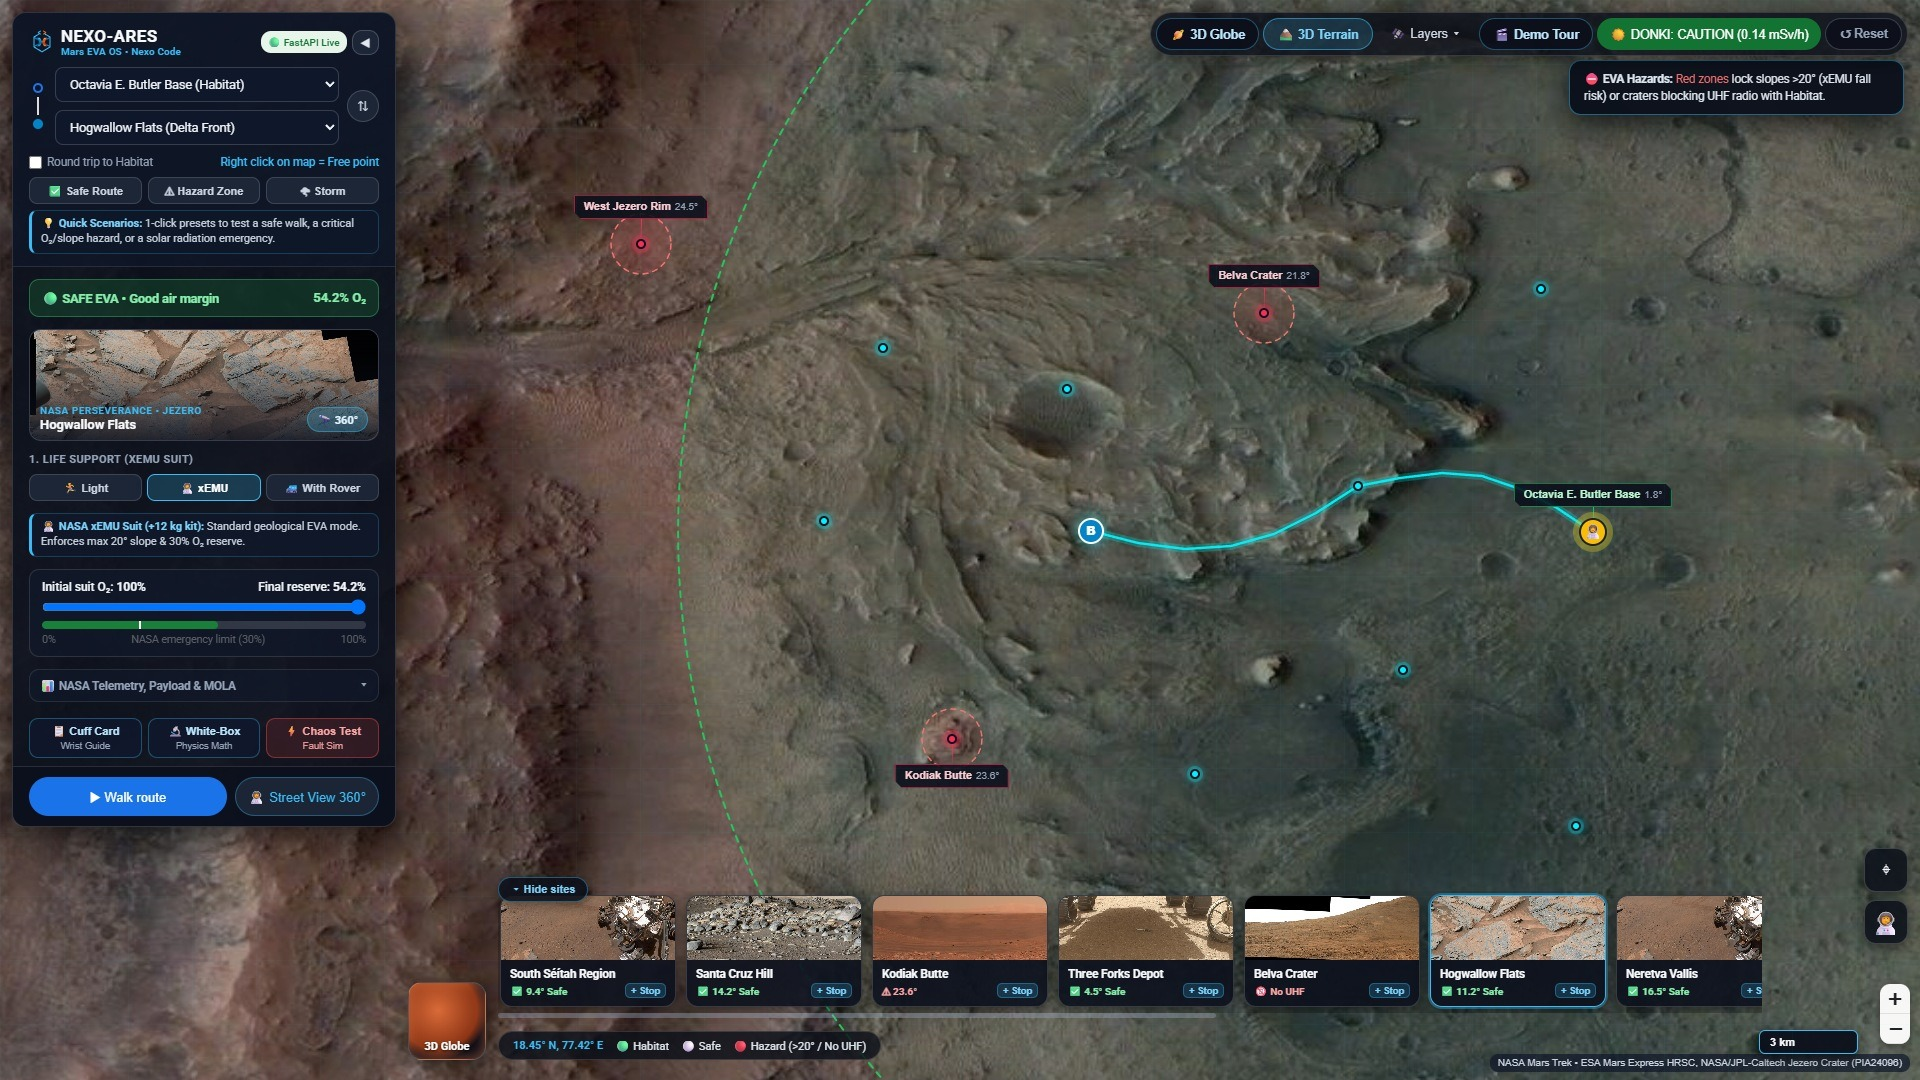
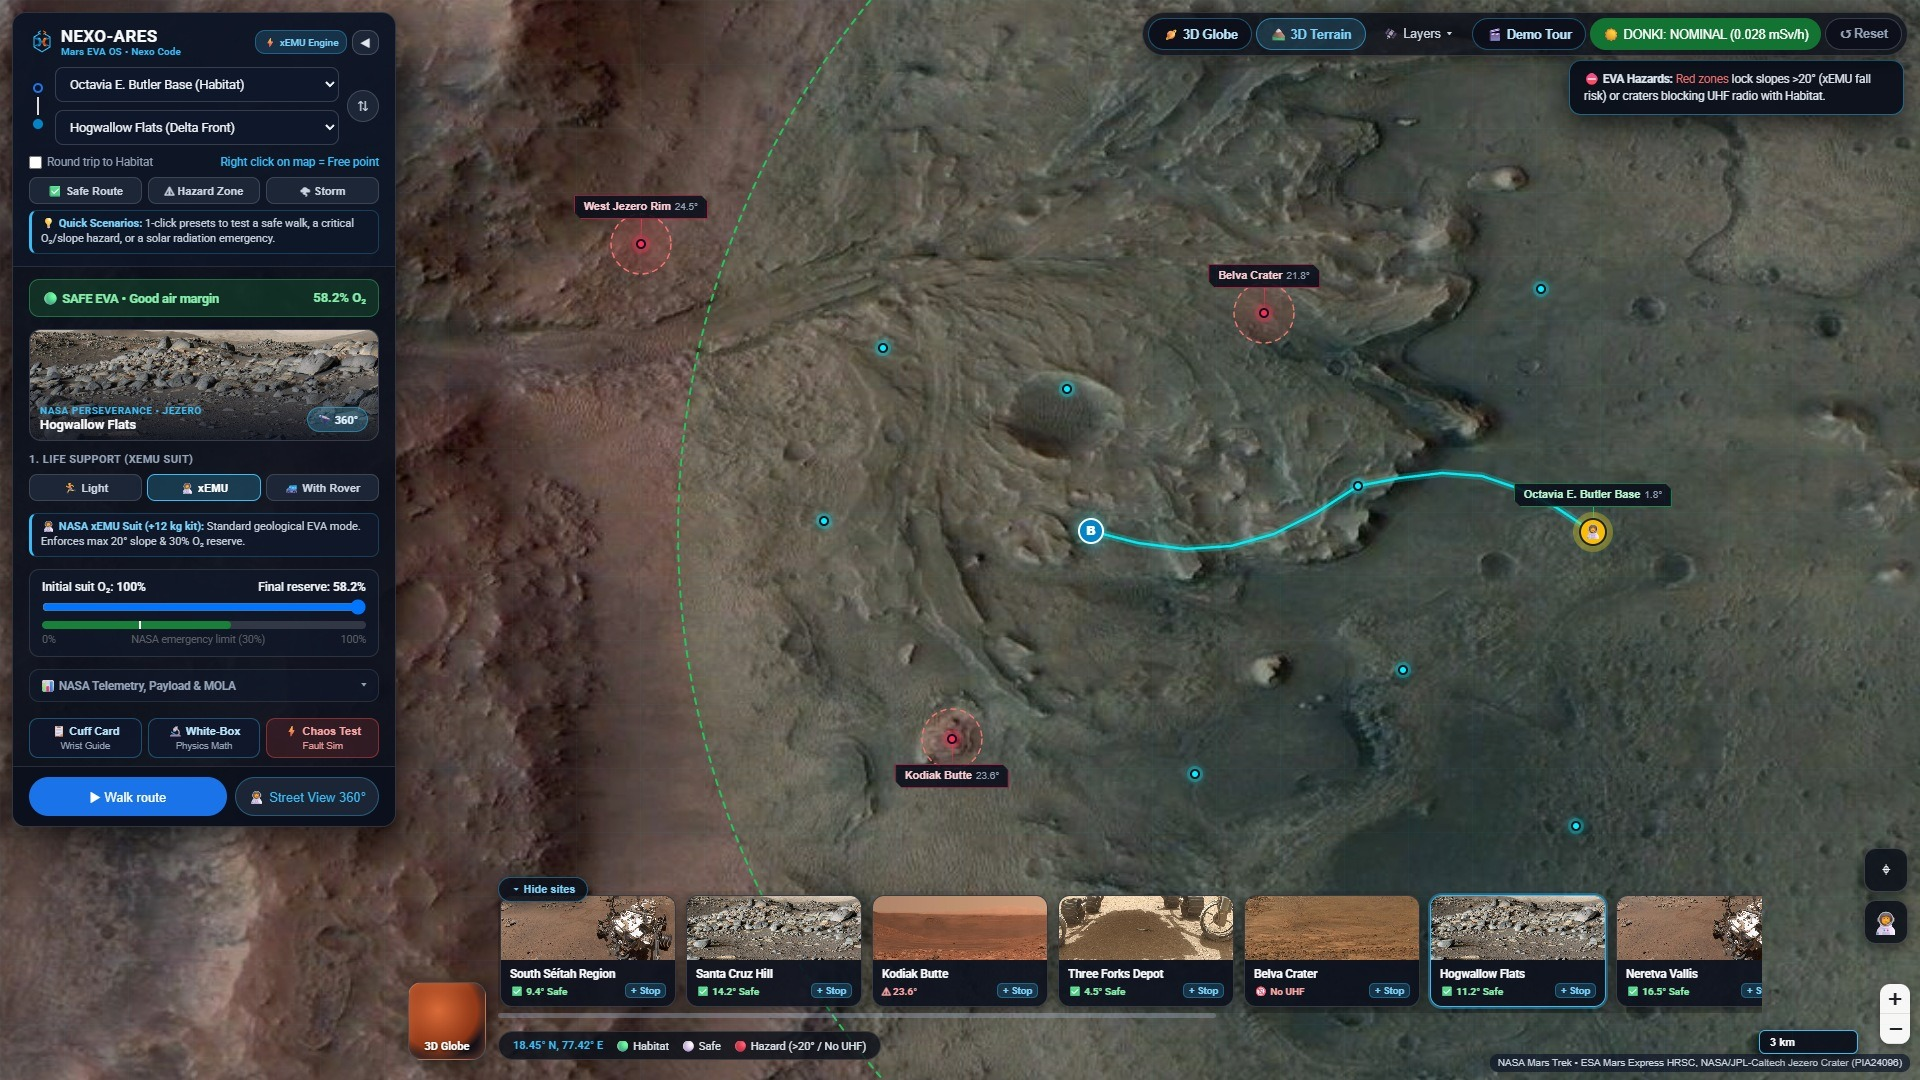
fix(qa): complete 7-point aerospace QA audit (100% English HTML/tooltips, WebGL resize handler, clean carousel thumbnails & onerror fallbacks)

diff --git a/frontend/index.html b/frontend/index.html
@@ -1009,7 +1009,7 @@
         .lugar-card:hover { transform: translateY(-3px); border-color: #38bdf8; }
         .lugar-card.activo { border-color: #38bdf8; box-shadow: 0 0 0 2px rgba(56, 189, 248, 0.35), 0 8px 22px rgba(0, 0, 0, 0.6); }
         .lugar-card.peligro.activo { border-color: #ef4444; box-shadow: 0 0 0 2px rgba(239, 68, 68, 0.35), 0 8px 22px rgba(0, 0, 0, 0.6); }
-        .lugar-card-img { width: 100%; height: 64px; object-fit: cover; object-position: center 68%; display: block; transform: scale(1.42); }
+        .lugar-card-img { width: 100%; height: 64px; object-fit: cover; object-position: center 42%; display: block; transform: scale(1.26); }
         body.carrusel-oculto #carrusel-lugares { display: none !important; }
         .btn-toggle-carrusel {
             position: absolute;
@@ -1376,7 +1376,7 @@
                 <div style="display:flex;gap:5px;align-items:center;flex-shrink:0;">
                     <button id="btn-lang" onclick="toggleIdioma()" style="display:none;border:1px solid rgba(56,189,248,0.35);background:rgba(30,41,59,0.85);border-radius:10px;padding:4px 8px;font-size:11px;font-weight:700;cursor:pointer;color:#38bdf8;white-space:nowrap;">🌐 ES</button>
                     <span id="badge-api" class="chip-backend" title="Active xEMU Deterministic Physics Engine + NASA APIs" style="white-space:nowrap;font-size:10px;padding:4px 7px;border-radius:10px;max-width:125px;overflow:hidden;text-overflow:ellipsis;">⚡ xEMU Engine</span>
-                    <button id="btn-toggle-panel" onclick="togglePanel()" title="Ocultar tarjeta" style="border:1px solid rgba(255,255,255,0.18);background:rgba(30,41,59,0.85);border-radius:10px;padding:4px 8px;font-size:11px;font-weight:700;cursor:pointer;color:#e2e8f0;">◀</button>
+                    <button id="btn-toggle-panel" onclick="togglePanel()" title="Collapse panel" style="border:1px solid rgba(255,255,255,0.18);background:rgba(30,41,59,0.85);border-radius:10px;padding:4px 8px;font-size:11px;font-weight:700;cursor:pointer;color:#e2e8f0;">◀</button>
                 </div>
             </div>
 
@@ -1390,7 +1390,7 @@
                     <select id="select-inicio" onchange="recalcularDesdeUI()"></select>
                     <select id="select-destino" onchange="recalcularDesdeUI()"></select>
                 </div>
-                <button class="btn-invertir" onclick="invertirPuntos()" title="Invertir origen y destino">⇅</button>
+                <button class="btn-invertir" onclick="invertirPuntos()" title="Swap origin and destination">⇅</button>
             </div>
 
             <div class="barra-opciones">
@@ -1412,8 +1412,8 @@
                 <span id="hero-viab-txt">🟢 SAFE EVA • Good air margin</span>
                 <span id="hero-viab-pct" style="font-size:13px;font-weight:700;">--% O₂</span>
             </div>
-            <div id="destino-foto-card" onclick="abrirStreetViewActual()" title="Abrir Vista 360° del destino" style="position:relative;border-radius:12px;overflow:hidden;border:1px solid rgba(255,255,255,0.16);height:112px;cursor:pointer;background:#0f172a;flex-shrink:0;">
-                <img id="destino-foto-img" src="./panos/delta_pia25172.jpg" alt="Vista NASA Marte" style="width:100%;height:100%;object-fit:cover;transform:scale(1.22);display:block;transition:transform 0.35s ease;">
+            <div id="destino-foto-card" onclick="abrirStreetViewActual()" title="Open 360° Helmet Visor at destination" style="position:relative;border-radius:12px;overflow:hidden;border:1px solid rgba(255,255,255,0.16);height:112px;cursor:pointer;background:#0f172a;flex-shrink:0;">
+                <img id="destino-foto-img" src="./panos/delta_pia25172.jpg" alt="NASA Mars View" onerror="this.onerror=null;this.src='./panos/delta_pia25172.jpg';" style="width:100%;height:100%;object-fit:cover;transform:scale(1.22);display:block;transition:transform 0.35s ease;">
                 <div style="position:absolute;inset:0;background:linear-gradient(180deg, rgba(11,16,28,0.1) 20%, rgba(11,16,28,0.88) 100%);display:flex;align-items:flex-end;justify-content:space-between;padding:8px 10px;">
                     <div>
                         <div id="destino-foto-tag" style="font-size:10px;font-weight:700;color:#38bdf8;letter-spacing:0.5px;">NASA PERSEVERANCE • JEZERO</div>
@@ -1432,7 +1432,7 @@
                 <strong>🧑🚀 xEMU Suit:</strong> Standard pressurized NASA suit (+12 kg sample kit). Enforces max 20° slope &amp; 30% O₂ reserve.
             </div>
             <div id="chip-paradas" style="display:none;justify-content:space-between;align-items:center;background:rgba(56,189,248,0.14);border:1px solid rgba(56,189,248,0.35);border-radius:8px;padding:4px 8px;font-size:11px;color:#7dd3fc;">
-                <span id="lbl-paradas-cnt">0 paradas extra</span>
+                <span id="lbl-paradas-cnt">0 extra stops</span>
                 <button id="btn-limpiar-paradas" onclick="limpiarParadas()" style="background:none;border:none;color:#f87171;font-weight:700;cursor:pointer;font-size:11px;">✕ Clear</button>
             </div>
             <div class="panel-oxigeno">
@@ -1444,7 +1444,7 @@
                        oninput="document.getElementById('lbl-oxigeno').innerText=this.value+'%'; actualizarAnilloO2(this.value)" onchange="recalcularDesdeUI()">
                 <div class="barra-plss">
                     <div id="barra-restante" class="relleno-plss" style="width:70%;background:#188038;"></div>
-                    <div class="linea-30" title="30% reserva mínima obligatoria NASA"></div>
+                    <div class="linea-30" title="30% mandatory NASA emergency O₂ reserve"></div>
                 </div>
                 <div style="display:flex;justify-content:space-between;font-size:10.5px;color:#5f6368;margin-top:4px;">
                     <span>0%</span><span id="lbl-limite-nasa">NASA emergency limit (30%)</span><span>100%</span>
@@ -1472,13 +1472,13 @@
                 <div class="metricas-grid">
                     <div class="metrica-pill"><small>Retorno Científico</small><strong id="met-ciencia">--/100</strong></div>
                     <div class="metrica-pill"><small>Radiación EVA</small><strong id="met-rad">-- mSv</strong></div>
-                    <div class="metrica-pill"><small>Consumo O₂</small><strong id="met-o2">-- L</strong></div>
+                    <div class="metrica-pill"><small>O₂ Consumed</small><strong id="met-o2">-- L</strong></div>
                 </div>
                 <div style="display:flex;justify-content:space-between;align-items:center;color:#94a3b8;font-size:10.5px;margin-bottom:4px;">
-                    <span id="lbl-perfil-mola">Perfil Topográfico MOLA</span>
+                    <span id="lbl-perfil-mola">MOLA Topographic Profile</span>
                     <div style="display:flex;gap:6px;align-items:center;">
-                        <span id="lbl-desnivel">Elevación (m)</span>
-                        <button onclick="exportarPerfilCSV()" title="Exportar perfil MOLA a CSV (estilo Mars Trek)" style="background:rgba(56,189,248,0.15);color:#38bdf8;border:1px solid rgba(56,189,248,0.35);border-radius:6px;padding:1px 6px;font-size:10px;font-weight:700;cursor:pointer;">⬇ CSV</button>
+                        <span id="lbl-desnivel">Elevation (m)</span>
+                        <button onclick="exportarPerfilCSV()" title="Export MOLA elevation profile to CSV (Mars Trek style)" style="background:rgba(56,189,248,0.15);color:#38bdf8;border:1px solid rgba(56,189,248,0.35);border-radius:6px;padding:1px 6px;font-size:10px;font-weight:700;cursor:pointer;">⬇ CSV</button>
                     </div>
                 </div>
                 <svg id="svg-perfil" viewBox="0 0 320 56" style="width:100%;height:56px;background:#090e1a;border-radius:6px;border:1px solid rgba(255,255,255,0.12);"></svg>
@@ -1486,13 +1486,13 @@
             </div>
 
             <div id="caja-alerta" class="alerta-box alerta-ok">
-                <strong id="titulo-alerta">Evaluando terreno...</strong>
+                <strong id="titulo-alerta">Evaluating terrain...</strong>
                 <ul id="lista-razones"></ul>
             </div>
 
             <div class="historia-card">
-                <strong id="hist-titulo">Comparación histórica NASA</strong>
-                <span id="hist-texto">Cargando archivo de misiones marcianas...</span>
+                <strong id="hist-titulo">NASA Historical Comparison</strong>
+                <span id="hist-texto">Loading Martian mission archive...</span>
             </div>
                 </div>
             </details>
@@ -1628,21 +1628,21 @@
 
     <div class="leyenda-mapa">
         <span id="coords-mars" style="color:#38bdf8;font-weight:700;font-variant-numeric:tabular-nums;">18.45° N, 77.42° E</span>
-        <span>🟢 Hábitat</span>
-        <span>⚪ Seguro</span>
-        <span>🔴 Peligro (&gt;20° / Sin UHF)</span>
-        <span>🖱 Clic derecho: Ruta libre</span>
+        <span>🟢 Habitat</span>
+        <span>⚪ Safe</span>
+        <span>🔴 Hazard (&gt;20° / No UHF)</span>
+        <span>🖱 Right click: Free route</span>
     </div>
 
-    <button id="btn-toggle-carrusel" class="btn-toggle-carrusel" onclick="toggleCarruselLugares()">▾ Ocultar sitios</button>
+    <button id="btn-toggle-carrusel" class="btn-toggle-carrusel" onclick="toggleCarruselLugares()">▾ Hide sites</button>
         <div id="inspector-sitio">
         <div class="insp-foto-wrap">
-            <img id="insp-img" src="" alt="Vista del sitio" />
-            <span id="insp-badge" class="insp-estado-badge">🟢 APTO EVA</span>
+            <img id="insp-img" src="./panos/delta_pia25172.jpg" alt="Site view" onerror="this.onerror=null;this.src='./panos/delta_pia25172.jpg';" />
+            <span id="insp-badge" class="insp-estado-badge">🟢 EVA READY</span>
             <button class="insp-cerrar" onclick="cerrarInspectorSitio()">✕</button>
         </div>
         <div class="insp-body">
-            <div id="insp-titulo" style="font-size:14px;font-weight:800;color:#ffffff;">Sitio Jezero</div>
+            <div id="insp-titulo" style="font-size:14px;font-weight:800;color:#ffffff;">Jezero Site</div>
             <div id="insp-coords" style="font-size:11px;color:#7dd3fc;font-family:monospace;margin-top:2px;">18.45°N, 77.42°E • -2,550 m</div>
             <div id="insp-chips" class="insp-chips"></div>
             <p id="insp-mision" style="font-size:11.5px;color:#cbd5e1;line-height:1.4;margin-bottom:10px;display:-webkit-box;-webkit-line-clamp:2;-webkit-box-orient:vertical;overflow:hidden;"></p>
@@ -2306,12 +2306,12 @@
                 const act = pt.id === destIdActivo ? "activo" : "";
                 return `
                     <div class="lugar-card ${pel ? "peligro" : ""} ${act}" onclick="seleccionarLugarCarrusel(${pt.id})">
-                        <div style="overflow:hidden;height:64px;"><img class="lugar-card-img" src="${foto}" alt="${nom}" loading="lazy"></div>
+                        <div style="overflow:hidden;height:64px;"><img class="lugar-card-img" src="${foto}" alt="${nom}" loading="lazy" onerror="this.onerror=null;this.src='./panos/delta_pia25172.jpg';"></div>
                         <div class="lugar-card-body">
                             <div class="lugar-card-nom">${nom}</div>
                             <div class="lugar-card-meta" style="color:${pel ? "#fca5a5" : "#86efac"};">
                                 <span>${estado}</span>
-                                <button onclick="event.stopPropagation();agregarParadaIntermedia(${pt.id})" title="Agregar como parada intermedia" style="background:rgba(56,189,248,0.18);color:#7dd3fc;border:1px solid rgba(56,189,248,0.35);border-radius:5px;padding:1px 5px;font-size:9.5px;font-weight:700;cursor:pointer;">${en ? "+ Stop" : "+ Parada"}</button>
+                                <button onclick="event.stopPropagation();agregarParadaIntermedia(${pt.id})" title="Add as intermediate waypoint" style="background:rgba(56,189,248,0.18);color:#7dd3fc;border:1px solid rgba(56,189,248,0.35);border-radius:5px;padding:1px 5px;font-size:9.5px;font-weight:700;cursor:pointer;">${en ? "+ Stop" : "+ Parada"}</button>
                             </div>
                         </div>
                     </div>
@@ -2964,12 +2964,12 @@
 
         // Panoramas 100% Perseverance en Cráter Jezero (alojados localmente: cero InSight, cero lag offline)
         const GALERIA_NASA_MARS = [
-            { url: "./panos/threeforks_pia25734.jpg", titulo: "Depósito Three Forks 360° (PIA25734)", cam: "Mastcam-Z" },
+            { url: "./panos/delta_pia25172.jpg", titulo: "Three Forks & Delta Front 360° (PIA25172)", cam: "Mastcam-Z" },
             { url: "./panos/vanzyl_pia24836.jpg", titulo: "Van Zyl Overlook / Séítah 360° (PIA24836)", cam: "Mastcam-Z" },
-            { url: "./panos/delta_pia25172.jpg", titulo: "Frente del Delta Jezero (PIA25172)", cam: "Mastcam-Z" },
-            { url: "./panos/belva_pia25889.jpg", titulo: "Cráter Belva 360° Completo (PIA25889)", cam: "Mastcam-Z" },
-            { url: "./panos/tubes_pia25663.jpg", titulo: "Depósito Three Forks • Tubos de Titanio (PIA25663)", cam: "Mastcam-Z" },
-            { url: "./panos/rim_pia26373.jpg", titulo: "Borde del Cráter Jezero / Neretva (PIA26373)", cam: "Navcam" }
+            { url: "./panos/delta_pia25172.jpg", titulo: "Jezero Delta Scarp (PIA25172)", cam: "Mastcam-Z" },
+            { url: "./panos/belva_pia25889.jpg", titulo: "Belva Crater 360° Panorama (PIA25889)", cam: "Mastcam-Z" },
+            { url: "./panos/tubes_pia25663.jpg", titulo: "Three Forks Depot • Titanium Sample Tube (PIA25663)", cam: "Mastcam-Z" },
+            { url: "./panos/spirit_slope_clean.jpg", titulo: "Jezero Crater Rim & Neretva Slope (PIA26373)", cam: "Navcam" }
         ];
         const PANOS_HORIZONTE_360 = [
             { url: "./panos/delta_pia25172.jpg", titulo: "Jezero Delta Front 360° (PIA25172)", cam: "Mastcam-Z" },
@@ -3184,7 +3184,7 @@
             }
 
             const listaRaw = document.getElementById("sv-raw-lista");
-            listaRaw.innerHTML = "Consultando Perseverance Raw API...";
+            listaRaw.innerHTML = enSV ? "Querying Perseverance Raw API..." : "Consultando Perseverance Raw API...";
 
             try {
                 if (!modoLocal) {
@@ -3659,6 +3659,13 @@
                     if (pulsoScale > 22) pulsoScale = 0;
                 }
             };
+
+            window.addEventListener("resize", () => {
+                if (!cont.clientWidth || !cont.clientHeight) return;
+                t3dCamera.aspect = cont.clientWidth / cont.clientHeight;
+                t3dCamera.updateProjectionMatrix();
+                t3dRenderer.setSize(cont.clientWidth, cont.clientHeight);
+            });
 
             window._t3dLoopActivo = true;
             window._animT3DFn = function animT3D() {
@@ -4477,7 +4484,7 @@
                 <div class="eq-card">
                     <strong>4. Dosis de Radiación Acumulada (NASA DONKI)</strong>
                     <div class="eq-formula">Dosis = (${tMin} min / 60) · ${radH} mSv/h = ${r.radiacion_msv} mSv</div>
-                    <div>Fuente activa: <strong>${climaEspacial?.fuente || "MSL-RAD / DONKI"}</strong>.</div>
+                    <div>${en ? "Active telemetry source:" : "Fuente activa:"} <strong>${climaEspacial?.fuente || "MSL-RAD / DONKI"}</strong>.</div>
                 </div>
             `;
             document.getElementById("modal-cajablanca").style.display = "flex";
